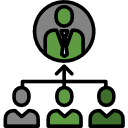
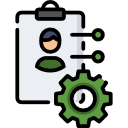
se pone el mismo icono de gestion de usuarios

diff --git a/client/src/Contenedor/Main.js b/client/src/Contenedor/Main.js
@@ -37,8 +37,8 @@ export default class Main extends Component {
         <Switch>
           <Route exact path={this.props.match.path + '/'} component={Menu}/>
           <Route path={this.props.match.path + '/administracion/usuarios'} component={Usuarios}/>
-          <Route path={this.props.match.path + '/administracion/'} component={Administracion}/>
           <Route path={this.props.match.path + '/administracion/unidades-de-medida'} component={UnidadesDeMedida}/>
+          <Route path={this.props.match.path + '/administracion/'} component={Administracion}/>
         </Switch>
         
       </Container>

diff --git a/client/src/Componentes/Administracion/Administracion.js b/client/src/Componentes/Administracion/Administracion.js
@@ -1,7 +1,7 @@
 import React, { Component } from 'react';
 import {Row, Col, Card, CardBody} from 'reactstrap';
 import './Administracion.css';
-import usuarios from '../../assets/img/management.png';
+import usuarios from '../../assets/img/usuarios.png';
 import areas from '../../assets/img/areas.png';
 import planes from '../../assets/img/planes-historicos.png';
 import indicadores from '../../assets/img/indicadores.png';
